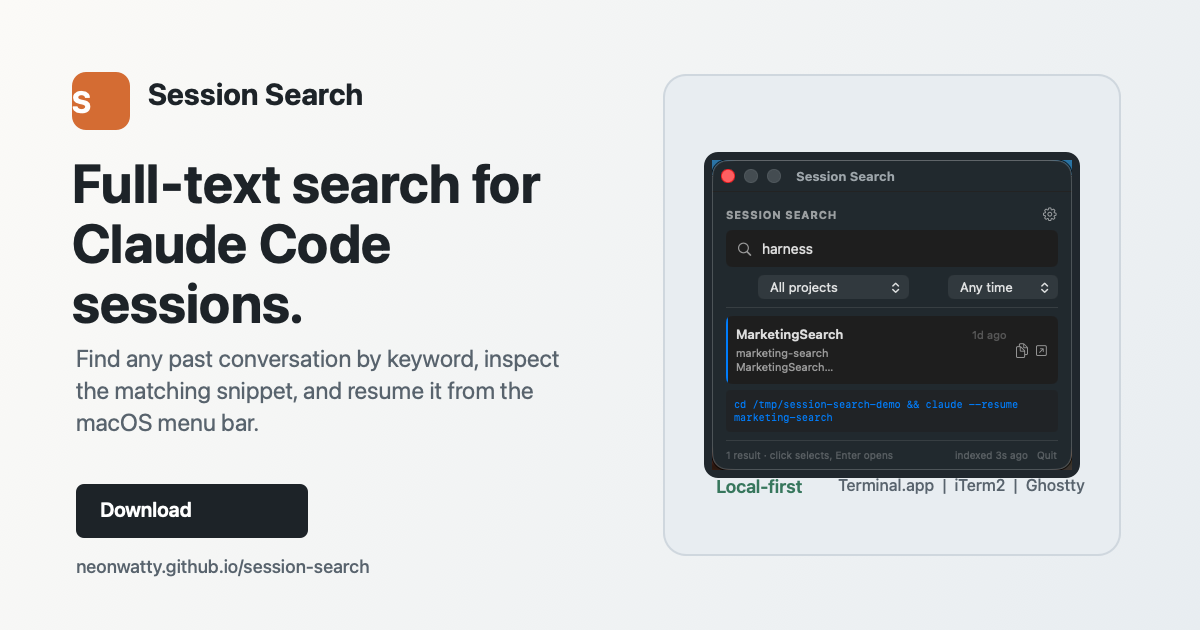
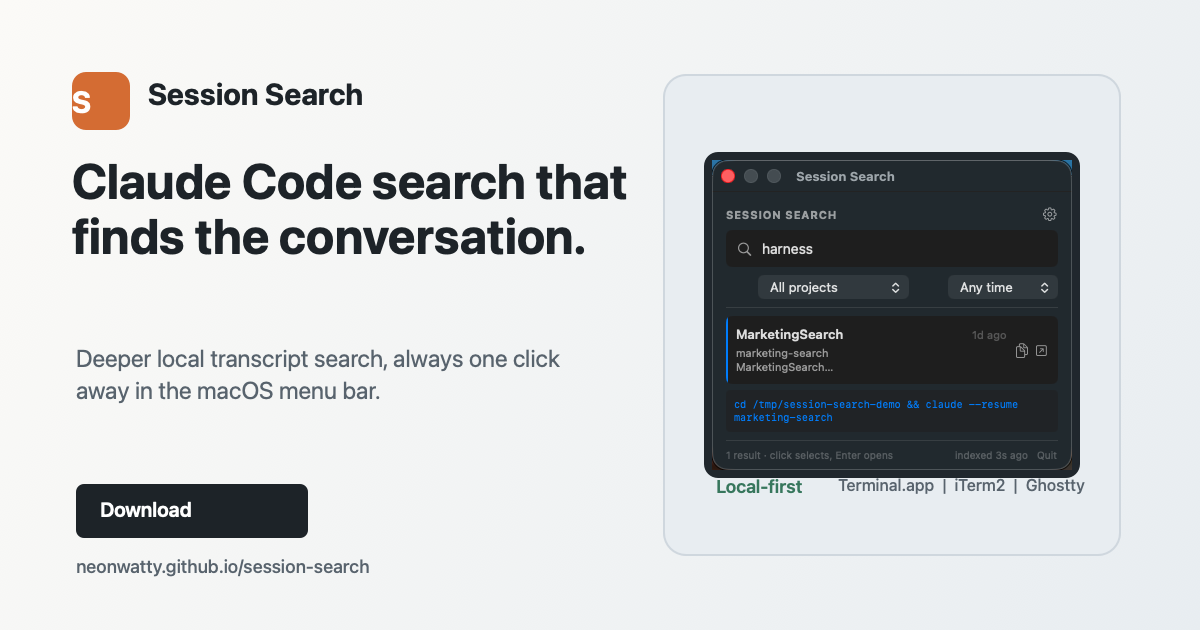
docs: sharpen search and menu bar messaging

Changed region(s): [[0.0617, 0.2413, 0.5242, 0.4222], [0.0617, 0.5429, 0.4625, 0.6937], [0.0617, 0.4524, 0.2467, 0.5127]]

diff --git a/docs/index.html b/docs/index.html
@@ -3,11 +3,11 @@
 <head>
   <meta charset="utf-8">
   <meta name="viewport" content="width=device-width, initial-scale=1">
-  <title>Session Search | Full-text search for Claude Code sessions</title>
-  <meta name="description" content="A local-first macOS menu bar app for full-text searching Claude Code session history and resuming sessions in one click.">
+  <title>Session Search | Better Claude Code search in your menu bar</title>
+  <meta name="description" content="Claude Code's built-in search does not index enough session content. Session Search indexes local transcripts and puts full-text search in the macOS menu bar.">
   <link rel="canonical" href="https://neonwatty.github.io/session-search/">
   <meta property="og:title" content="Session Search">
-  <meta property="og:description" content="Full-text search for Claude Code sessions, from the macOS menu bar.">
+  <meta property="og:description" content="Deeper Claude Code session search, always one click away in the macOS menu bar.">
   <meta property="og:type" content="website">
   <meta property="og:url" content="https://neonwatty.github.io/session-search/">
   <meta property="og:site_name" content="Session Search">
@@ -17,7 +17,7 @@
   <meta property="og:image:height" content="630">
   <meta name="twitter:card" content="summary_large_image">
   <meta name="twitter:title" content="Session Search">
-  <meta name="twitter:description" content="Full-text search for Claude Code sessions, from the macOS menu bar.">
+  <meta name="twitter:description" content="Deeper Claude Code session search, always one click away in the macOS menu bar.">
   <meta name="twitter:image" content="https://neonwatty.github.io/session-search/assets/session-search-social-card.png">
   <meta name="twitter:image:alt" content="Session Search social preview with app screenshot and full-text search tagline">
   <style>
@@ -290,13 +290,13 @@
   <main>
     <div class="wrap hero">
       <div>
-        <h1>Full-text search for Claude Code sessions.</h1>
-        <p class="lead">Find the exact prior conversation by keyword, inspect the matching snippet, and resume it from the macOS menu bar.</p>
+        <h1>Claude Code search that actually finds the conversation.</h1>
+        <p class="lead">Claude Code's built-in search does not index enough to reliably find old work. Session Search indexes your local transcripts and keeps full-text search one click away in the macOS menu bar.</p>
         <div class="actions">
           <a class="button" href="https://github.com/neonwatty/session-search/releases/latest">Download latest release</a>
           <a class="button secondary" href="https://github.com/neonwatty/session-search">View on GitHub</a>
         </div>
-        <p class="note">macOS 13.0+ &middot; Terminal.app, iTerm2, and Ghostty &middot; indexes local Claude Code transcripts</p>
+        <p class="note">macOS 13.0+ &middot; lives in the menu bar &middot; indexes local Claude Code transcripts</p>
       </div>
 
       <div class="product">
@@ -306,21 +306,21 @@
 
     <section id="features">
       <div class="wrap">
-        <h2>Built for finding the thing you remember.</h2>
+        <h2>Built for the searches Claude Code misses.</h2>
         <div class="grid">
-          <div class="card"><h3>Conversation search</h3><p>SQLite FTS5 indexes Claude Code JSONL transcripts so mid-conversation terms are searchable.</p></div>
+          <div class="card"><h3>Deeper indexing</h3><p>SQLite FTS5 indexes local Claude Code transcripts, so errors, commands, filenames, and decisions are searchable.</p></div>
+          <div class="card"><h3>Menu bar access</h3><p>Open search from the macOS menu bar, type the word you remember, and get back to the right session.</p></div>
           <div class="card"><h3>Fast resume flow</h3><p>Open the selected session with Enter, double-click, or copy the generated resume command.</p></div>
           <div class="card"><h3>Terminal choice</h3><p>Launch resumed sessions in Terminal.app, iTerm2, or Ghostty with optional CLI flag presets.</p></div>
           <div class="card"><h3>Useful snippets</h3><p>Results show project names, relative timestamps, and highlighted keyword context.</p></div>
           <div class="card"><h3>Automatic indexing</h3><p>The app scans on launch and on a configurable interval, with a manual rebuild when needed.</p></div>
-          <div class="card"><h3>Local diagnostics</h3><p>Index stats, parse failures, and logs are available when transcripts do not index cleanly.</p></div>
         </div>
       </div>
     </section>
 
     <section>
       <div class="wrap demo">
-        <h2>Search from the real menu bar app.</h2>
+        <h2>One click from the menu bar.</h2>
         <video autoplay loop muted playsinline poster="assets/session-search-demo-poster.jpg" aria-label="Real desktop recording of Session Search finding playwright results and opening a Claude Code session">
           <source src="assets/session-search-demo.mp4" type="video/mp4">
           <img src="assets/session-search-demo.gif" alt="Real desktop recording of Session Search finding playwright results and opening a Claude Code session">

diff --git a/docs/scripts/generate-social-card.swift b/docs/scripts/generate-social-card.swift
@@ -74,15 +74,15 @@ drawText("S", in: NSRect(x: 72, y: 512, width: 58, height: 34), size: 30, weight
 drawText("Session Search", in: NSRect(x: 148, y: 514, width: 360, height: 40), size: 30, weight: .bold, color: color(0x1d2328))
 
 drawText(
-    "Full-text search for Claude Code sessions.",
+    "Claude Code search that finds the conversation.",
     in: NSRect(x: 72, y: 306, width: 560, height: 170),
-    size: 54,
+    size: 49,
     weight: .bold,
     color: color(0x1d2328),
-    lineHeight: 60
+    lineHeight: 55
 )
 drawText(
-    "Find any past conversation by keyword, inspect the matching snippet, and resume it from the macOS menu bar.",
+    "Deeper local transcript search, always one click away in the macOS menu bar.",
     in: NSRect(x: 76, y: 198, width: 520, height: 92),
     size: 24,
     weight: .regular,

diff --git a/docs/marketing.md b/docs/marketing.md
@@ -4,27 +4,27 @@ Reusable copy and asset guidance for Session Search.
 
 ## Positioning
 
-Session Search is a macOS menu bar app that adds full-text search to Claude Code session history. It is built for developers who remember a detail from a prior Claude Code conversation, but not the session name, branch, or first prompt.
+Session Search is a macOS menu bar app for finding Claude Code sessions by conversation content. Claude Code's built-in search does not index enough of the transcript to reliably find old work, so Session Search indexes local transcripts and keeps deeper search one click away.
 
 ## One-Liner
 
-Full-text search for Claude Code sessions, from the macOS menu bar.
+Better Claude Code session search, from the macOS menu bar.
 
 ## Short Description
 
-Session Search indexes local Claude Code transcripts and lets you find past sessions by conversation content. Search by keyword, inspect the highlighted snippet, and resume the exact session in Terminal.app, iTerm2, or Ghostty.
+Claude Code's built-in search does not index enough to reliably find old conversations. Session Search indexes local transcripts, lives in the macOS menu bar, and lets you search by keyword, inspect the highlighted snippet, and resume the exact session.
 
 ## Longer Description
 
-Claude Code's `/resume` picker is useful when you remember session metadata. Session Search fills the gap when you remember something discussed mid-conversation: an error, command, implementation detail, filename, or decision. The app runs from the macOS menu bar, indexes local transcripts under `~/.claude/projects/`, and opens the selected result with `claude --resume`.
+Claude Code's `/resume` picker is useful when you remember session metadata, but its built-in search does not index enough conversation content to be reliable when you only remember an error, command, implementation detail, filename, or decision. Session Search fills that gap by indexing local transcripts under `~/.claude/projects/`, living in the macOS menu bar, and opening the selected result with `claude --resume`.
 
 ## Key Messages
 
-- Search the content of Claude Code sessions, not just metadata.
+- Claude Code's built-in search misses too much conversation content; Session Search indexes local transcripts.
+- Keep search one click away in the macOS menu bar.
 - Resume the right session without hunting through old transcripts.
 - Keep data local: transcripts, index, settings, and logs stay on your Mac.
 - Use the terminal you already work in: Terminal.app, iTerm2, or Ghostty.
-- Diagnose indexing issues with visible counts, parse failures, and local logs.
 
 ## Audience
 
@@ -34,25 +34,25 @@ Claude Code's `/resume` picker is useful when you remember session metadata. Ses
 
 ## Launch Post
 
-I built Session Search, a small macOS menu bar app for full-text searching Claude Code session history.
+I built Session Search, a small macOS menu bar app for searching Claude Code session history.
 
-Claude Code's `/resume` picker is useful when you remember metadata, but I kept wanting to find sessions by something discussed mid-conversation: an error, command, filename, implementation detail, or decision.
+Claude Code's built-in search does not index enough to reliably find old work. I kept wanting to find sessions by something discussed mid-conversation: an error, command, filename, implementation detail, or decision.
 
-Session Search indexes local Claude Code transcripts, shows highlighted snippets, and resumes the selected session in Terminal.app, iTerm2, or Ghostty.
+Session Search indexes local Claude Code transcripts, lives in the macOS menu bar, shows highlighted snippets, and resumes the selected session in Terminal.app, iTerm2, or Ghostty.
 
 Download: https://github.com/neonwatty/session-search/releases/latest
 
 ## Short Social Post
 
-Session Search adds full-text search to Claude Code session history.
+Claude Code's built-in search does not index enough conversation content.
 
-Find a past conversation by keyword, preview the matching snippet, and resume it from the macOS menu bar.
+Session Search indexes local transcripts and puts better Claude Code session search in the macOS menu bar.
 
 https://neonwatty.github.io/session-search/
 
 ## GitHub Release Blurb
 
-Session Search is a local-first macOS menu bar app for finding and resuming Claude Code sessions by conversation content.
+Session Search is a local-first macOS menu bar app for finding and resuming Claude Code sessions by conversation content. It fills the gap left by Claude Code's built-in search by indexing local transcripts and keeping full-text search one click away.
 
 Download the notarized `SessionSearch.app` zip below, unzip it, and move the app to `~/Applications/`.
 
